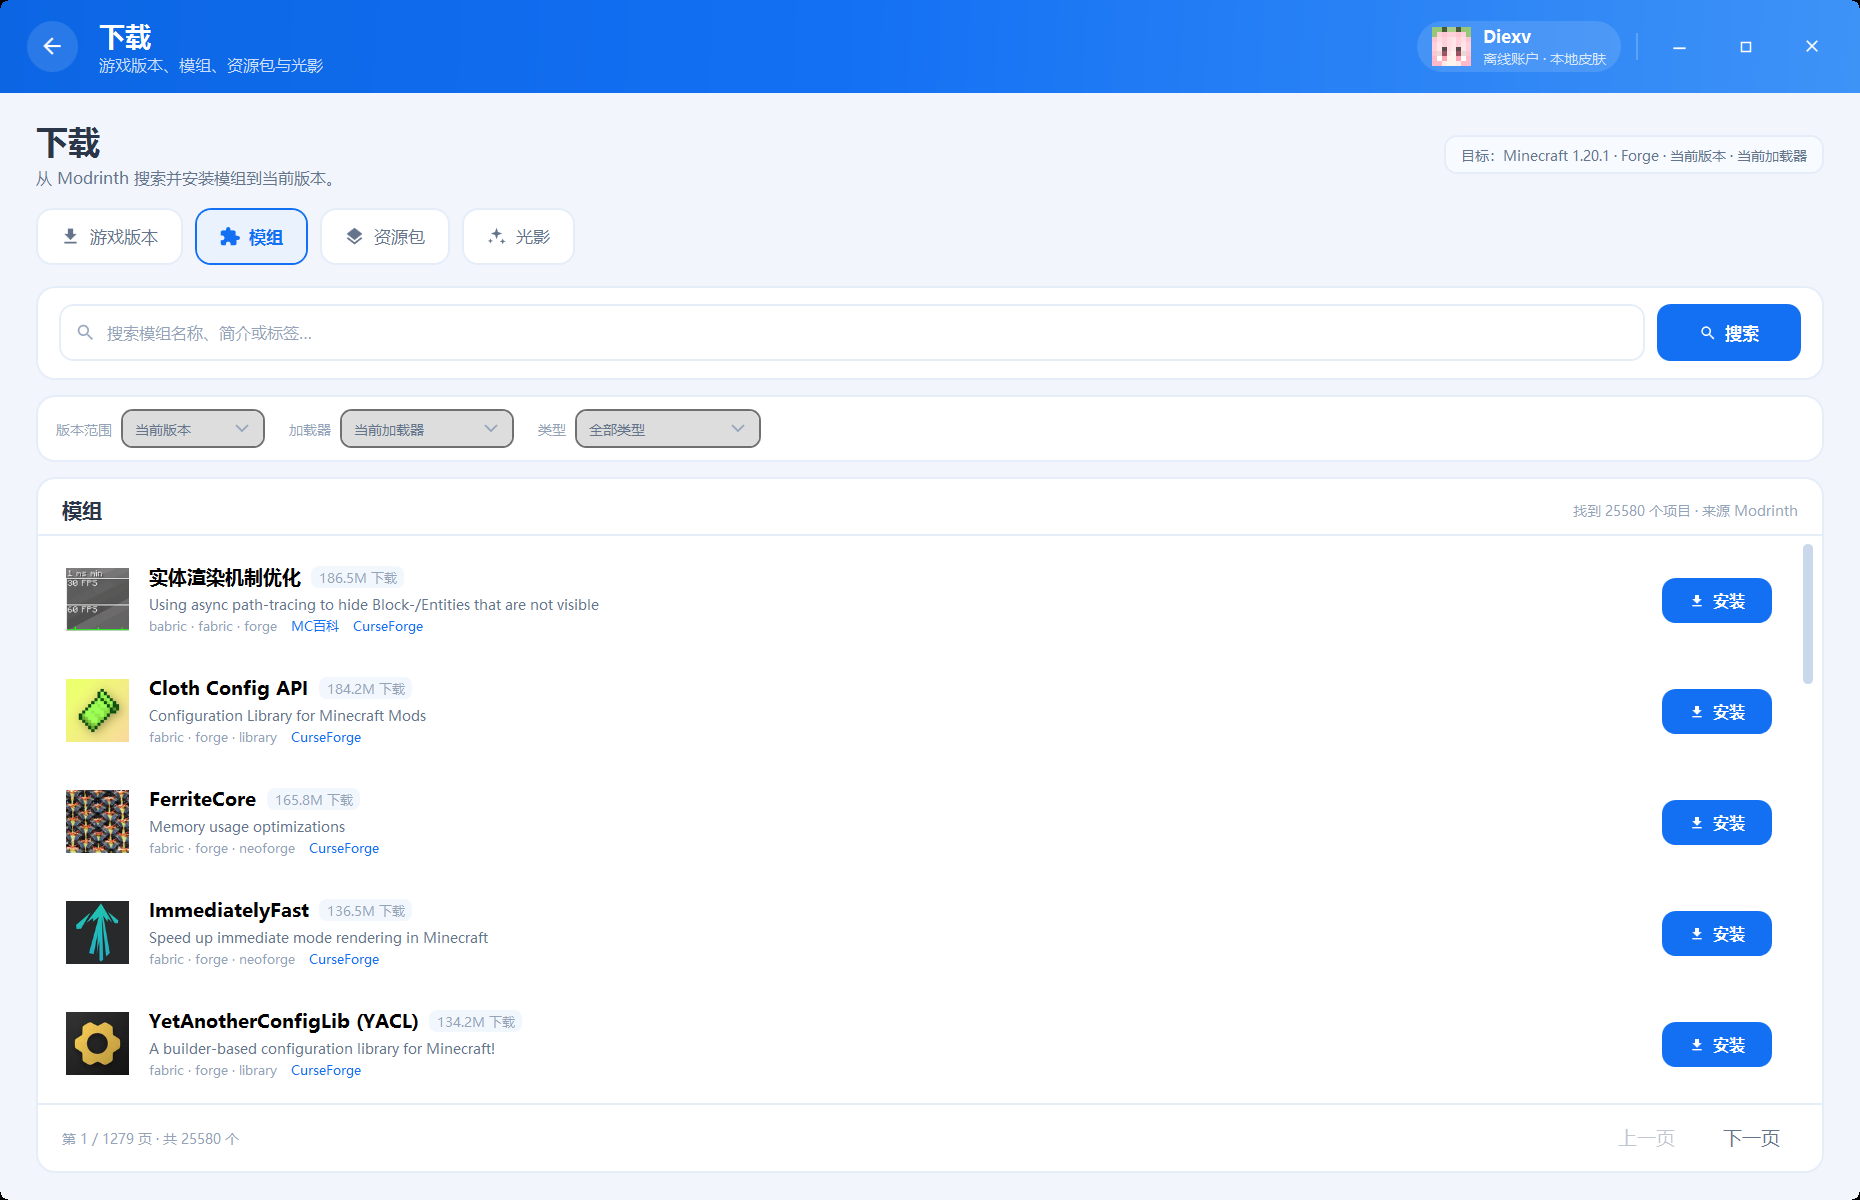
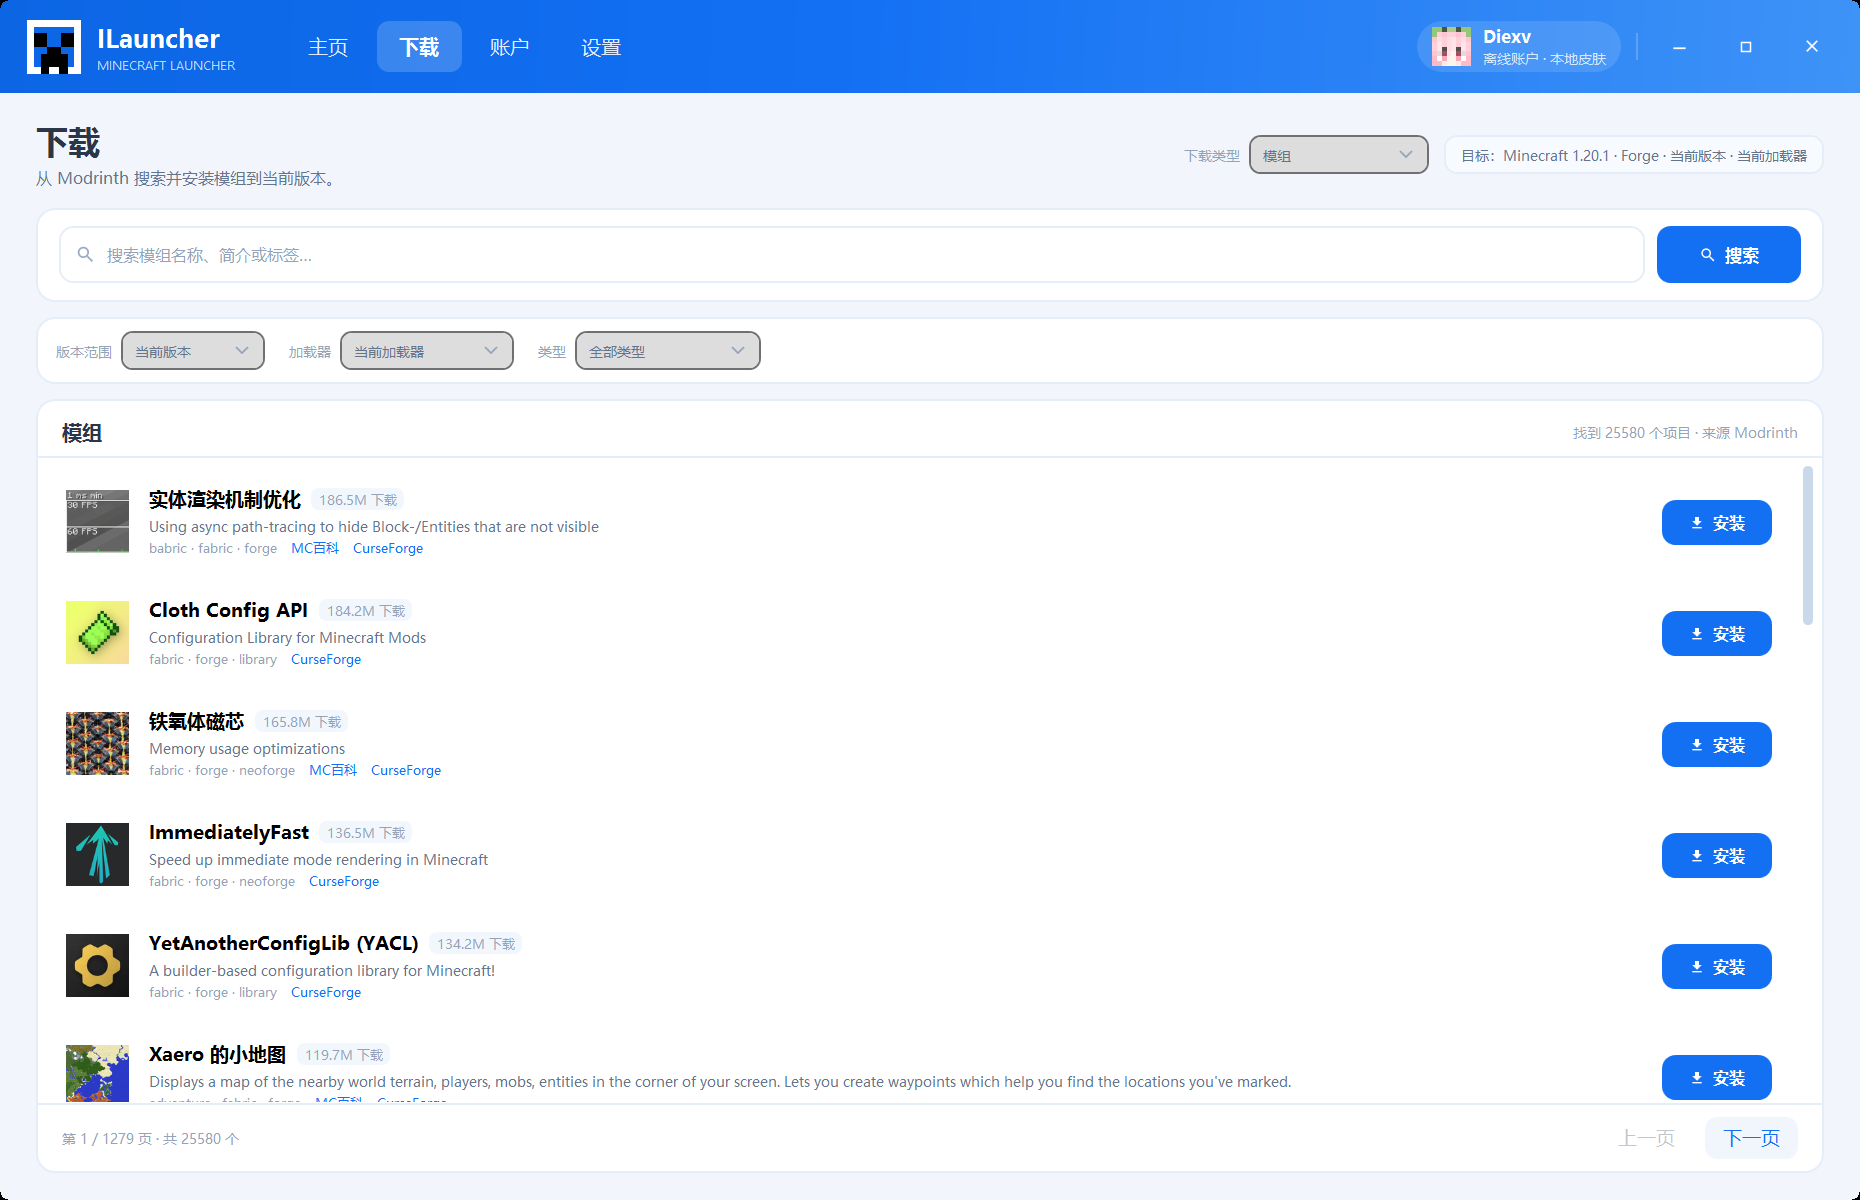
Keep root navigation visible and simplify download navigation

diff --git a/src/ILauncher/Views/DownloadView.xaml b/src/ILauncher/Views/DownloadView.xaml
@@ -63,7 +63,6 @@
     <Grid Margin="24,18,24,18">
         <Grid.RowDefinitions>
             <RowDefinition Height="Auto" />
-            <RowDefinition Height="Auto" />
             <RowDefinition Height="*" />
         </Grid.RowDefinitions>
 
@@ -75,6 +74,12 @@
                            Margin="0,4,0,0" />
             </StackPanel>
             <StackPanel Orientation="Horizontal" HorizontalAlignment="Right" VerticalAlignment="Center">
+                <TextBlock Text="下载类型" FontSize="9.5" Foreground="{StaticResource BrushTextMuted}"
+                           VerticalAlignment="Center" Margin="0,0,6,0" />
+                <ComboBox Style="{StaticResource FilterCombo}" Width="120" Margin="0,0,10,0"
+                          ItemsSource="{Binding DownloadTypeOptions}"
+                          SelectedItem="{Binding SelectedDownloadType, Mode=TwoWay}"
+                          AutomationProperties.Name="下载类型" />
                 <Border Background="#FFF7FBFF" BorderBrush="{StaticResource BrushBorder}" BorderThickness="1"
                         CornerRadius="8" Padding="10,5" VerticalAlignment="Center">
                     <TextBlock Text="{Binding FilterSummary}" FontSize="9.5" Foreground="{StaticResource BrushTextSecondary}" />
@@ -82,44 +87,8 @@
             </StackPanel>
         </Grid>
 
-        <!-- Tabs -->
-        <StackPanel Grid.Row="1" Orientation="Horizontal" Margin="0,0,0,14">
-            <Button Style="{StaticResource DownloadTabButton}" Tag="{Binding IsGameTab}"
-                          Command="{Binding SetTabCommand}" CommandParameter="Game" AutomationProperties.Name="游戏版本">
-                <StackPanel Orientation="Horizontal">
-                    <controls:Icon Data="{StaticResource IconDownload}" Width="14" Height="14"
-                                   Fill="{Binding Foreground, RelativeSource={RelativeSource AncestorType=Button}}" />
-                    <TextBlock Text="游戏版本" Margin="6,0,0,0" FontSize="11.5" />
-                </StackPanel>
-            </Button>
-            <Button Style="{StaticResource DownloadTabButton}" Tag="{Binding IsModsTab}"
-                          Command="{Binding SetTabCommand}" CommandParameter="Mods" AutomationProperties.Name="模组">
-                <StackPanel Orientation="Horizontal">
-                    <controls:Icon Data="{StaticResource IconPuzzle}" Width="14" Height="14"
-                                   Fill="{Binding Foreground, RelativeSource={RelativeSource AncestorType=Button}}" />
-                    <TextBlock Text="模组" Margin="6,0,0,0" FontSize="11.5" />
-                </StackPanel>
-            </Button>
-            <Button Style="{StaticResource DownloadTabButton}" Tag="{Binding IsResourcePacksTab}"
-                          Command="{Binding SetTabCommand}" CommandParameter="ResourcePacks" AutomationProperties.Name="资源包">
-                <StackPanel Orientation="Horizontal">
-                    <controls:Icon Data="{StaticResource IconLayers}" Width="14" Height="14"
-                                   Fill="{Binding Foreground, RelativeSource={RelativeSource AncestorType=Button}}" />
-                    <TextBlock Text="资源包" Margin="6,0,0,0" FontSize="11.5" />
-                </StackPanel>
-            </Button>
-            <Button Style="{StaticResource DownloadTabButton}" Tag="{Binding IsShadersTab}"
-                          Command="{Binding SetTabCommand}" CommandParameter="Shaders" AutomationProperties.Name="光影">
-                <StackPanel Orientation="Horizontal">
-                    <controls:Icon Data="{StaticResource IconSparkles}" Width="14" Height="14"
-                                   Fill="{Binding Foreground, RelativeSource={RelativeSource AncestorType=Button}}" />
-                    <TextBlock Text="光影" Margin="6,0,0,0" FontSize="11.5" />
-                </StackPanel>
-            </Button>
-        </StackPanel>
-
         <!-- ═══════════ Game tab ═══════════ -->
-        <Grid Grid.Row="2" Visibility="{Binding IsGameTab, Converter={StaticResource BoolToVisibility}}">
+        <Grid Grid.Row="1" Visibility="{Binding IsGameTab, Converter={StaticResource BoolToVisibility}}">
             <Grid.ColumnDefinitions>
                 <ColumnDefinition Width="*" />
                 <ColumnDefinition Width="14" />
@@ -288,7 +257,7 @@
         </Grid>
 
         <!-- ═══════════ Content search tab ═══════════ -->
-        <Grid Grid.Row="2" Visibility="{Binding IsContentTab, Converter={StaticResource BoolToVisibility}}">
+        <Grid Grid.Row="1" Visibility="{Binding IsContentTab, Converter={StaticResource BoolToVisibility}}">
             <Grid.RowDefinitions>
                 <RowDefinition Height="Auto" />
                 <RowDefinition Height="Auto" />

diff --git a/src/ILauncher/MainWindow.xaml b/src/ILauncher/MainWindow.xaml
@@ -38,8 +38,7 @@
                 </Grid.ColumnDefinitions>
 
                 <!-- Brand -->
-                <StackPanel Grid.Column="0" Orientation="Horizontal" VerticalAlignment="Center"
-                            Visibility="{Binding IsHome, Converter={StaticResource BoolToVisibility}}">
+                <StackPanel Grid.Column="0" Orientation="Horizontal" VerticalAlignment="Center">
                     <Image Source="Assets/app.png" Width="36" Height="36"
                            RenderOptions.BitmapScalingMode="NearestNeighbor" />
                     <StackPanel Margin="11,0,0,0" VerticalAlignment="Center">
@@ -49,24 +48,9 @@
                     </StackPanel>
                 </StackPanel>
 
-                <!-- Sub page title -->
-                <StackPanel Grid.Column="0" Orientation="Horizontal" VerticalAlignment="Center"
-                            Visibility="{Binding IsHome, Converter={StaticResource InverseBoolToVisibility}}">
-                    <Button Style="{StaticResource HeaderRoundButton}" Command="{Binding GoHomeCommand}"
-                            ToolTip="返回主页" Margin="0,0,14,0" AutomationProperties.Name="返回主页">
-                        <controls:Icon Data="{StaticResource IconBack}" Fill="#FFFFFFFF" Width="17" Height="17" />
-                    </Button>
-                    <StackPanel VerticalAlignment="Center">
-                        <TextBlock Text="{Binding HeaderTitle}" FontSize="17" FontWeight="SemiBold" Foreground="#FFFFFFFF" />
-                        <TextBlock Text="{Binding HeaderSubtitle}" FontSize="10.5" Foreground="#BFFFFFFF"
-                                   TextTrimming="CharacterEllipsis" MaxWidth="520" Margin="0,1,0,0" />
-                    </StackPanel>
-                </StackPanel>
-
                 <!-- Root navigation -->
-                <StackPanel Grid.Column="1" Orientation="Horizontal" VerticalAlignment="Center" Margin="34,0,0,0"
-                            Visibility="{Binding IsHome, Converter={StaticResource BoolToVisibility}}">
-                    <Button Style="{StaticResource HeaderTabButton}" Content="主页" Tag="{Binding IsHome}"
+                <StackPanel Grid.Column="1" Orientation="Horizontal" VerticalAlignment="Center" Margin="34,0,0,0">
+                    <Button Style="{StaticResource HeaderTabButton}" Content="主页" Tag="{Binding IsHomeOrInstance}"
                             Command="{Binding GoHomeCommand}" AutomationProperties.Name="主页" />
                     <Button Style="{StaticResource HeaderTabButton}" Content="下载" Tag="{Binding IsDownloadPage}"
                             Command="{Binding GoDownloadCommand}" Margin="4,0,0,0" AutomationProperties.Name="下载" />

diff --git a/src/ILauncher/ViewModels/DownloadViewModel.cs b/src/ILauncher/ViewModels/DownloadViewModel.cs
@@ -64,8 +64,10 @@ public sealed class DownloadViewModel : ObservableObject
     private DownloadFilterOption? _selectedLoader;
     private DownloadFilterOption? _selectedVersionScope;
     private DownloadFilterOption? _selectedCategory;
+    private DownloadFilterOption? _selectedDownloadType;
     private int _searchOffset;
     private int _searchTotal;
+    private int _searchVersion;
     private const int SearchPageSize = 20;
     private GameInstance? _contextInstance;
     private bool _versionsLoaded;
@@ -119,6 +121,14 @@ public sealed class DownloadViewModel : ObservableObject
             new() { Key = "all", Title = "全部版本" }
         };
         CategoryFilters = new ObservableCollection<DownloadFilterOption>();
+        DownloadTypeOptions = new ObservableCollection<DownloadFilterOption>
+        {
+            new() { Key = "Game", Title = "游戏版本", IsSelected = true },
+            new() { Key = "Mods", Title = "模组" },
+            new() { Key = "ResourcePacks", Title = "资源包" },
+            new() { Key = "Shaders", Title = "光影" }
+        };
+        _selectedDownloadType = DownloadTypeOptions[0];
         _selectedGameType = GameTypeFilters.FirstOrDefault(option => option.IsSelected) ?? GameTypeFilters[0];
         _selectedLoader = LoaderFilters.FirstOrDefault(option => option.IsSelected) ?? LoaderFilters[0];
         _selectedVersionScope = VersionScopeFilters.FirstOrDefault(option => option.IsSelected) ?? VersionScopeFilters[0];
@@ -175,6 +185,7 @@ public sealed class DownloadViewModel : ObservableObject
     public ObservableCollection<DownloadFilterOption> LoaderFilters { get; }
     public ObservableCollection<DownloadFilterOption> VersionScopeFilters { get; }
     public ObservableCollection<DownloadFilterOption> CategoryFilters { get; }
+    public ObservableCollection<DownloadFilterOption> DownloadTypeOptions { get; }
 
     public AsyncRelayCommand RefreshGameVersionsCommand { get; }
     public AsyncRelayCommand InstallVersionCommand { get; }
@@ -210,6 +221,14 @@ public sealed class DownloadViewModel : ObservableObject
             OnPropertyChanged(nameof(ProjectType));
             OnPropertyChanged(nameof(TabTitle));
             OnPropertyChanged(nameof(TabDescription));
+            var typeOption = DownloadTypeOptions.FirstOrDefault(option => option.Key == value.ToString());
+            if (typeOption != null && !ReferenceEquals(_selectedDownloadType, typeOption))
+            {
+                SelectSingle(DownloadTypeOptions, typeOption);
+                _selectedDownloadType = typeOption;
+                OnPropertyChanged(nameof(SelectedDownloadType));
+            }
+
             RebuildCategoryFilters();
             OnPropertyChanged(nameof(FilterSummary));
             if (value != DownloadTab.Game)
@@ -373,6 +392,24 @@ public sealed class DownloadViewModel : ObservableObject
             if (CurrentTab != DownloadTab.Game)
             {
                 _ = SearchAsync();
+            }
+        }
+    }
+
+    public DownloadFilterOption? SelectedDownloadType
+    {
+        get => _selectedDownloadType;
+        set
+        {
+            if (!SetProperty(ref _selectedDownloadType, value) || value == null)
+            {
+                return;
+            }
+
+            SelectSingle(DownloadTypeOptions, value);
+            if (Enum.TryParse<DownloadTab>(value.Key, out var tab))
+            {
+                CurrentTab = tab;
             }
         }
     }
@@ -747,6 +784,7 @@ public sealed class DownloadViewModel : ObservableObject
 
         IsSearching = true;
         SearchStatus = "正在搜索 Modrinth…";
+        var searchVersion = ++_searchVersion;
         try
         {
             var loader = CurrentTab == DownloadTab.Mods ? ResolveLoader() : null;
@@ -754,24 +792,10 @@ public sealed class DownloadViewModel : ObservableObject
             var category = SelectedCategory?.Key is null or "all" ? null : SelectedCategory.Key;
             var result = await _modrinth.SearchAsync(SearchQuery, ProjectType,
                 gameVersion, loader, category, _searchOffset, SearchPageSize);
-            IReadOnlyList<ModrinthProject> hits = result.Hits;
-            if (CurrentTab == DownloadTab.Mods && hits.Count > 0)
-            {
-                SearchStatus = "正在匹配 MC百科中文名…";
-                var lookups = hits.Select(async project =>
-                {
-                    var info = await _mcmod.LookupAsync(project.Title);
-                    return info == null
-                        ? project
-                        : project with { ChineseName = info.Name, McmodUrl = info.Url };
-                });
-                hits = await Task.WhenAll(lookups);
-            }
-
             _searchOffset = result.Offset;
             _searchTotal = result.TotalHits;
             SearchResults.Clear();
-            foreach (var project in hits)
+            foreach (var project in result.Hits)
             {
                 SearchResults.Add(project);
             }
@@ -780,11 +804,15 @@ public sealed class DownloadViewModel : ObservableObject
             OnPropertyChanged(nameof(SearchPage));
             OnPropertyChanged(nameof(SearchTotalPages));
             OnPropertyChanged(nameof(SearchPageText));
-            PreviousPageCommand.RaiseCanExecuteChanged();
-            NextPageCommand.RaiseCanExecuteChanged();
-            SearchStatus = hits.Count == 0
+            SearchStatus = result.Hits.Count == 0
                 ? "没有找到匹配的项目，试试换一个关键词。"
-                : $"找到 {result.TotalHits} 个项目 · 来源 Modrinth";
+                : CurrentTab == DownloadTab.Mods
+                    ? $"找到 {result.TotalHits} 个项目 · 正在匹配 MC百科…"
+                    : $"找到 {result.TotalHits} 个项目 · 来源 Modrinth";
+            if (CurrentTab == DownloadTab.Mods && result.Hits.Count > 0)
+            {
+                _ = EnrichMcmodAsync(result.Hits, searchVersion);
+            }
         }
         catch (Exception ex)
         {
@@ -796,6 +824,44 @@ public sealed class DownloadViewModel : ObservableObject
             InstallProjectCommand.RaiseCanExecuteChanged();
             PreviousPageCommand.RaiseCanExecuteChanged();
             NextPageCommand.RaiseCanExecuteChanged();
+        }
+    }
+
+    private async Task EnrichMcmodAsync(IReadOnlyList<ModrinthProject> hits, int searchVersion)
+    {
+        foreach (var project in hits)
+        {
+            if (searchVersion != _searchVersion)
+            {
+                return;
+            }
+
+            var info = await _mcmod.LookupAsync(project.Title);
+            if (searchVersion != _searchVersion)
+            {
+                return;
+            }
+
+            if (info == null)
+            {
+                continue;
+            }
+
+            var index = SearchResults
+                .Select((item, i) => (item, i))
+                .FirstOrDefault(pair => pair.item.Id == project.Id)
+                .i;
+            if (index < 0 || index >= SearchResults.Count || SearchResults[index].Id != project.Id)
+            {
+                continue;
+            }
+
+            SearchResults[index] = project with { ChineseName = info.Name, McmodUrl = info.Url };
+        }
+
+        if (searchVersion == _searchVersion)
+        {
+            SearchStatus = $"找到 {_searchTotal} 个项目 · 来源 Modrinth";
         }
     }
 

diff --git a/src/ILauncher/ViewModels/MainViewModel.cs b/src/ILauncher/ViewModels/MainViewModel.cs
@@ -311,7 +311,13 @@ public sealed class MainViewModel : ObservableObject
     public bool IsHome
     {
         get => _isHome;
-        private set => SetProperty(ref _isHome, value);
+        private set
+        {
+            if (SetProperty(ref _isHome, value))
+            {
+                OnPropertyChanged(nameof(IsHomeOrInstance));
+            }
+        }
     }
 
     public bool IsSettingsPage
@@ -335,8 +341,16 @@ public sealed class MainViewModel : ObservableObject
     public bool IsInstancePage
     {
         get => _isInstancePage;
-        private set => SetProperty(ref _isInstancePage, value);
+        private set
+        {
+            if (SetProperty(ref _isInstancePage, value))
+            {
+                OnPropertyChanged(nameof(IsHomeOrInstance));
+            }
+        }
     }
+
+    public bool IsHomeOrInstance => IsHome || IsInstancePage;
 
     public bool ShowBack => !IsHome;
 

diff --git a/README.md b/README.md
@@ -91,7 +91,7 @@ $env:MS_CLIENT_ID = "你的 Azure Application (client) ID"
 - 版本卡片、主页大卡、版本页侧栏、概览都会使用本地图标；未设置时按加载器自动使用 **Fabric / Quilt / Forge / NeoForge / OptiFine** 官方徽标，原版使用方块图标。徽标来源见 `Assets/Loaders/README.md`。
 - 模组图标从 jar 内部读取（Fabric/Quilt/Forge/NeoForge 元数据），资源包读取 `pack.png`，存档读取 `icon.png`。
 
-### 下载中心
+### 顶部导航\n\n- 顶部固定显示 **主页 / 下载 / 账户 / 设置**；切换根界面不再依赖返回按钮，也不会在子页隐藏导航。\n- 下载页不再使用「游戏版本 / 模组 / 资源包 / 光影」二级标签，改为页面右上角的**下载类型**下拉。\n\n### 下载中心
 
 ![下载中心](docs/screenshots/download.png)
 
@@ -248,7 +248,7 @@ docs/screenshots/            README 截图
 - Forge 1.20.1（124 模组、2 启用）：真实启动，日志面板捕获 7,000+ 行，窗口检测、停止进程树。
 - 原版 1.20.1：启动、停止、日志面板。
 - Fabric 安装：通过 Meta API 创建 `fabric-loader-0.20.1-1.20.1`（测试后清理）。
-- Modrinth：搜索、模组/资源包/光影标签页、加载器/版本范围/类型筛选、安装资源包到版本目录（测试后清理）。
+- Modrinth：搜索、下载类型下拉、加载器/版本范围/类型筛选、翻页、MC百科中文名、安装资源包到版本目录（测试后清理）。
 - 原版 1.20.1 安装器：临时目录下载版本 JSON、客户端 jar 和 65 个库文件（不下载资源对象）。
 - Forge 官方安装器：在全新临时目录完整安装 `1.20.1-forge-47.4.21`，自动生成 `launcher_profiles.json` 并完成打补丁。
 - 模组更新：放入旧版 Cloth Config 后检查到 11.1.136，点击更新后旧文件被禁用、新文件启用（测试后清理）。
@@ -272,6 +272,7 @@ docs/screenshots/            README 截图
 - 模组安装不会自动解析并安装前置依赖；只安装主文件。
 - Forge/NeoForge 走官方安装器，不保证所有版本都能在无界面模式下成功。
 - 启动器自身更新、主题/语言切换等非 Minecraft 功能未实现。
+
 
 
 
